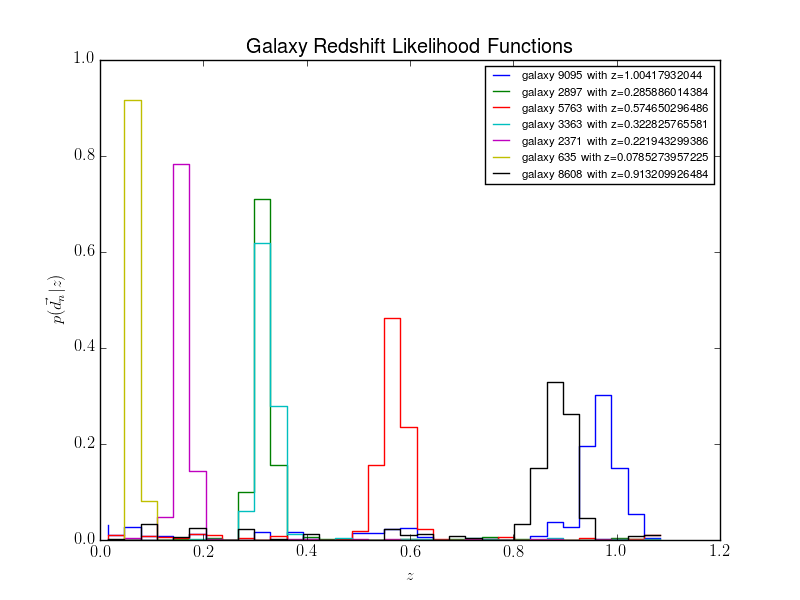
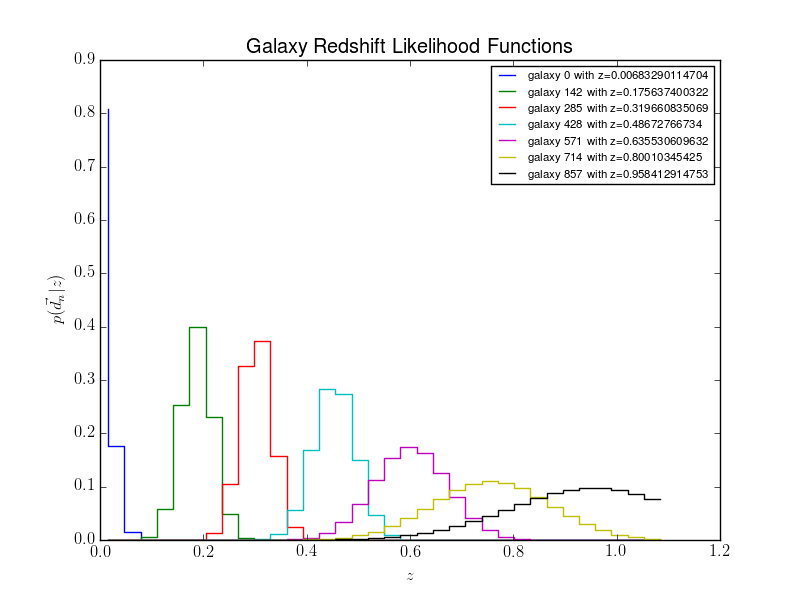
revision

diff --git a/minimal-nz/maindoc.tex b/minimal-nz/maindoc.tex
@@ -38,7 +38,7 @@ This paper answers the question of how one would calculate the redshift distribu
 
 \section{Introduction}
 
-We would like to learn the redshift distribution function $\mathcal{N}(z)$ for a set of $N$ galaxies $n$.  We assume each galaxy has a known likelihood function $p(\vec{d}_{n}|z)$ for the observed data $\vec{d}_{n}$ (a set of magnitudes in each of several filters) over redshift $z$.  The full dataset of $\{\vec{d}_{n}\}_{n=1,\dots,N}$ will be denoted as $\textul{D}$.  The redshift distribution function may be expressed as Eq. \ref{eq:params}.
+We would like to learn the redshift distribution function $\mathcal{N}(z)$ for a set of $J$ galaxies $j$.  We assume each galaxy has a known likelihood function $p(\vec{d}_{j}|z)$ for the observed data $\vec{d}_{j}$ (a set of magnitudes in each of several filters) over redshift $z$.  The full dataset of $\{\vec{d}_{j}\}_{j=1,\dots,J}$ will be denoted as $\textul{D}$.  The redshift distribution function may be expressed as Eq. \ref{eq:params}.
 
 \begin{eqnarray}
 \label{eq:params}
@@ -49,7 +49,7 @@ The likelihood function for the redshift distribution function is given in Eq. \
 
 \begin{eqnarray}
 \label{eq:likelihood}
-p(\textul{D}|\mathcal{N}) &=& \prod_{n=1}^{N}\int p(\vec{d}_{n}|z)\ p(z|\mathcal{N})dz
+p(\textul{D}|\mathcal{N}) &=& \prod_{j=1}^{J}\int p(\vec{d}_{j}|z)\ p(z|\mathcal{N})dz
 \end{eqnarray}
 
 By Bayes' Rule, we may find the desired posterior according to Eq. \ref{eq:bayes}.  We want the posterior for direct comparison with prior work in the literature, but the likelihood of Eq. \ref{eq:likelihood} is in fact preferable.
@@ -65,21 +65,24 @@ It is generally considered difficult to calculate the posterior $p(\mathcal{N}|\
 
 \subsection{Probabilistic Model}
 
-We consider the $K=35$ redshift bins $B_{k}=[z_{k-1},z_{k}]$ for which \citet{she11} calculated posteriors for the redshift of each galaxy based on observations of the apparent magnitude in the five photmetric filters of SDSS.  We parametrize $\mathcal{N}(z)$ as a vector of histogram heights $\vec{\mathcal{N}}$ representing the probability that a galaxy's redshift lies within the corresponding bin.  Eq. \ref{eq:params} becomes Eq. \ref{eq:dparams}.
+We consider the $K=35$ redshift bins $B_{k}=[z^{B}_{k-1},z^{B}_{k}]$ for which \citet{she11} calculated posteriors for the redshift of each galaxy based on observations of the apparent magnitude in the five photmetric filters of SDSS.  We parametrize $\mathcal{N}(z)$ as a vector of histogram heights $\vec{\mathcal{N}}$ representing the probability that a galaxy's redshift lies within the corresponding bin.  Eq. \ref{eq:params} becomes Eq. \ref{eq:dparams}, although we actually work with the log of $\vec{\mathcal{N}}$ throughout.  
 
 \begin{eqnarray}
 \label{eq:dparams}
 p(B_{k}|\vec{\mathcal{N}}) &=& \mathcal{N}_{k}% \vec{\mathcal{N}} \equiv \frac{\mathcal{N}_{k}}{\sum_{k=1}^{K}\mathcal{N}_{k}}
 \end{eqnarray}
 
-In order to simulate data, we must select a true redshift function $\vec{\mathcal{N}}^{0}$ from some prior.  In this case, we choose the prior $p(\vec{\mathcal{N}})$ to be a multivariate Gaussian distribution satisfying Eq. \ref{eq:covmat}.  This covariance structure is chosen to enforce continuity of the histogram heights, to better approximate a potentially realistic $\mathcal{N}(z)$.
+\subsection{Fake Data}
+\label{sec:fake}
+
+In order to simulate data, we must select a true redshift function $\vec{\mathcal{N}}^{0}$ from some prior evaluated at the center of each bin $z_{k}=(z_{k+1}^{B}-z_{k}^{B})/2$.  In this case, we choose the prior $p(\vec{\mathcal{N}})$ to be a multivariate Gaussian distribution satisfying Eq. \ref{eq:covmat}.  This covariance structure is chosen to enforce continuity of the histogram heights, to better approximate a potentially realistic $\mathcal{N}(z)$.  IT SHOULD BE NOTED THAT SMOOTHNESS IMPROVES IF A MORE BROADLY CORRELATED COVARIANCE MATRIX IS USED.
 
 \begin{mathletters}
 \begin{eqnarray}
 \label{eq:covmat}
-p(\vec{\mathcal{N}}) &=& N(\vec{\bar{p}},\textul{\Sigma})\\
-\bar{p}_{k} &=& K^{-1}\nonumber\\
-\Sigma_{ij} &=& \left\{\begin{array}{cc}0& i=j\\\frac{K^{-1}}{|i-j|}&i\neq j\end{array}\right\}\nonumber
+p(\ln[\vec{\mathcal{N}}]) &=& N(\ln[\vec{\mu}],\textul{\Sigma})\\
+\mu_{k} &=& \frac{z_{k}^{z_{K}^{B}}\exp[-z_{k}*z_{1}^{B}]}{\sum_{k=0}^{K}z_{k}^{z_{K}^{B}}\exp[-z_{k}*z_{1}^{B}]}\nonumber\\
+\Sigma_{ij} &=& \left\{\begin{array}{cc}i=j&\ K^{-1/2}\\|i-j|=1&\ K^{-1}\\else&0\end{array}\right\}\nonumber
 \end{eqnarray}
 \end{mathletters}
 
@@ -87,69 +90,73 @@ Some examples of samples from the prior are shown in Fig. \ref{fig:priors}.
 
 \begin{figure}
 \label{fig:priors}
-\plotone{log-prior-samps.png}
+\plotone{real-prior-samps.png}
 \caption{Several random samples of $\vec{\mathcal{N}}$ from the prior distribution of Eq. \ref{eq:covmat} are shown here.  The mean of the prior is shown in black.}
 \end{figure}
 
-\subsection{Fake Data}
+Next, we generate galaxy redshift likelihood functions as follows.  We first assign a bin number $b_{j}=k$ from $k=1,\dots,K$ to each of $J=1000$ galaxies by randomly sampling the $K$ bins with weights given by the prior as $p(b_{j})\sim\mathcal{N}^{0}_{k}$.  We then assign each galaxy a true redshift $z_{j}$ chosen uniformly from within the bin $B_{b_{j}}$ to which it was assigned.  Here it is convenient to define $\beta$ as the mean redshift per bin.
 
-Next, we generate galaxy redshift likelihood functions as follows.  
-
-First, we assign a bin number $b_{n}$ from $k=1,\dots,K$ to each of $N=10000$ galaxies by randomly sampling the $K$ bins with weights given by the prior as $p(b_{n})\sim\mathcal{N}^{0}_{k}$.  We then assign each galaxy a true redshift $z_{n}^{0}$ chosen uniformly from within the bin $B_{b_{n}}$ to which it was assigned.  Here it is convenient to define $\bar{z}_{k}$ as the mean redshift per bin.
-
-The true redshift of each galaxy is shifted by a random error according to Eq. \ref{eq:zshift} to simulate inaccuracy in measurements, yielding a shifted redshift $z_{n}^{s}$ for each galaxy.  
+The true redshift of each galaxy is shifted by a random error according to Eq. \ref{eq:zshift} to simulate inaccuracy in measurements, yielding a shifted redshift $z_{j}'$ for each galaxy.  
 
 \begin{mathletters}
 \begin{eqnarray}
 \label{eq:zshift}
-z_{n}^{s} &=& z_{n}^{0}+e_{n}\\
-p(e_{n}) &=& N(0,\beta^{2})\nonumber\\
-\beta &=& \frac{\sum_{b_{n}=1}^{K}z_{b_{n}}-z_{b_{n}-1}}{K}\nonumber
+z_{j}' &=& z_{j}+e_{j}\\
+p(e_{j}) &=& N(0,\beta^{2})\nonumber\\
+\beta &=& \frac{\sum_{b_{j}=1}^{K}z_{b_{j}}-z_{b_{j}-1}}{K}\nonumber
 \end{eqnarray}
 \end{mathletters}
 
-The discretized likelihood function $p(\vec{d_{n}}|B_{k})$ for each galaxy is taken to be Gaussian with a mean equal to the shifted redshift and a standard deviation proportional to the true redshift to simulate the fact that uncertainty increases with redshift.  Thus the observed probability that galaxy $n$ has a redshift in bin $k$ is given by Eq. \ref{eq:zdist}.
+The discretized likelihood function $p(\vec{d_{j}}|B_{k})$ for each galaxy is taken to be Gaussian with a mean equal to the shifted redshift and a standard deviation proportional to the square of the true redshift to simulate the fact that uncertainty increases with redshift.  Thus the observed probability that galaxy $j$ has a redshift in bin $k$ is given by Eq. \ref{eq:zdist}.  As a final step, all likelihoods are normalized such that they sum to unity.  Fig. \ref{fig:pzs} shows a few examples of  simulated likelihoods.
 
 \begin{eqnarray}
 \label{eq:zdist}
-p(\vec{d_{n}}|B_{k}) = \int_{z_{k-1}}^{z_{k}} \frac{1}{\sqrt{2\pi(\beta\ z_{n}^{0})^{2}}}\exp\left[-\frac{(z_{n}^{s}-z')^{2}}{2(\beta\ z_{n}^{0})^{2}}\right]dz'
+\mathcal{L}_{j}^{k} &\equiv& p(\vec{d_{j}}|B_{k}) = \int_{z_{k-1}}^{z_{k}} \frac{1}{\sqrt{2\pi(\sqrt{\beta}z_{j}^{2})^{2}}}\exp\left[-\frac{(z_{j}'-\tilde{z})^{2}}{2(\sqrt{\beta}z_{j}^{2})^{2}}\right]d\tilde{z}
 \end{eqnarray}
-
-The likelihood functions are then noisified according to the Gaussian of Eq. \ref{eq:zerr}, yielding a likelihood $\vec{\mathcal{L}}_{n}$ for each galaxy.  Again, the standard deviation for the noisification is chosen to simulate decreased signal-to-noise at higher redshifts.  As a final step, all likelihoods are normalized such that they sum to unity.
-
-\begin{mathletters}
-\begin{eqnarray}
-\label{eq:zerr}
-\mathcal{L}_{n}^{k} &\equiv& \frac{p(\vec{d_{n}}|B_{k})+\epsilon_{nk}}{\sum_{k=1}^{K}p(\vec{d}_{n}|B_{k})+\epsilon_{nk}}\\
-p(\epsilon_{nk}) &=& N(0,(\beta\ (z_{n}^{0})^{2})^{2})\nonumber
-\end{eqnarray}
-\end{mathletters}
-
-As a final step, all likelihoods are normalized such that they sum to unity and are thus proper probabilities.  Fig. \ref{fig:pzs} shows a few examples simulated likelihoods.
 
 \begin{figure}
 \label{fig:pzs}
 \plotone{rando-lik-samps.png}
-\caption{Several random redshift likelihood functions are shown here.  Note that the width of the Gaussian and magnitude of noise increases with redshift.}
+\caption{Several random redshift likelihood functions are shown here.  Note that the width of the Gaussian increases with redshift.}
 \end{figure}
 
 There are some other physically motivated modifications of this process that would be valuable to explore in future work.  In particular, a multimodal distribution replacing the Gaussian shape of the likelihoods would better simulate the degeneracies present in photometric redshift estimates.
 
 \section{Results}
 
-The Metropolis-Hastings algorithm is applied to sample the posterior.  We propose a value of $\vec{\mathcal{N}}$ based on the previously accepted value (initializing with the mean of the prior) and compare the numerator of Eq. \ref{eq:bayes} for the proposed and previously accepted values, since the two samples of $\vec{\mathcal{N}}$ will have the same denominator.  Eq. \ref{eq:disc-post} is the discretized version of the combination of \ref{eq:bayes} and \ref{eq:likelihood}.  If the ratio of the proposed posterior to the previous is greater than unity, the proposal is accepted; otherwise, the posterior likelihood is compared to a random probability and accepted if and only if the random number is less than the posterior.  This process is repeated for $R=10000$ iterations, arbitrarily.
+One instance of $\vec{\mathcal{N}}$ was selected at random as a true value.  Samples of true galaxy redshifts were taken from that distribution and transformed into likelihood functions according to the procedure of Sec. \ref{sec:fake}.  Fig. \ref{fig:samples} shows histograms of the fake data generated.  It is worth noting that any method aiming to calculate the posterior can do no better than the "observed redshifts" that go into generating the data.
+
+\begin{figure}
+\label{fig:samples}
+\plotone{inputs.png}
+\caption{The true $\vec{\mathcal{N}}$ chosen for this test is plotted here, along with histograms of the true redshifts sampled from it and the shifted redshifts resulting from the fake data generation procedure.}
+\end{figure}
+
+The Metropolis-Hastings algorithm is applied to sample the posterior.  The procedure is initialized with the log of the mean $\ln\vec{\mu}$ of the prior distribution of Eq. \ref{eq:covmat}, which shall be denoted $\ln\vec{\mathcal{N}}$.  The log of the numerator of the posterior of Eq. \ref{eq:bayes} is calculated according to Eq. \ref{eq:disc-post} and is denoted as $\ln\tilde{p}(\vec{\mathcal{N}}|\textul{D})$.  The following pseudo-code outlines the algorithm.
+
+\begin{enumerate}
+\item \label{it:randsamp} Randomly sample $\ln\tilde{p}(\vec{\mathcal{N}}|\textul{D})$ to generate $\vec{\mathcal{N}}'$.
+\item Calculate the log of the numerator of the posterior as in Eq. \ref{eq:disc-post} to produce $\ln\tilde{p}(\vec{\mathcal{N}}'|\textul{D})$.
+\item Calculate $r=\ln\tilde{p}(\vec{\mathcal{N}}'|\textul{D})-\ln\tilde{p}(\vec{\mathcal{N}}|\textul{D})$.
+\item If $r\geq0$, set and record $\ln\vec{\mathcal{N}}=\ln\vec{\mathcal{N}}'$; recalculate $\ln\tilde{p}(\vec{\mathcal{N}}|\textul{D})$.\\
+If $r<0$, select a random number $n$ from the uniform distribution between 0 and 1.
+\begin{enumerate}
+\item If $n<e^{r}$, set and record $\vec{\mathcal{N}}=\vec{\mathcal{N}}'$; recalculate $\ln\tilde{p}(\vec{\mathcal{N}}|\textul{D})$.
+\end{enumerate}
+\item Check if the threshold has been achieved; if not, return to Step \ref{it:randsamp}.
+\end{enumerate}
 
 \begin{eqnarray}
 \label{eq:disc-post}
-p(\vec{\mathcal{N}}|\textul{D}) &\propto& p(\vec{\mathcal{N}})\  \prod_{n=1}^{N}\sum_{k=1}^{K}p(\vec{d}_{n}|z_{k})\ p(z_{k}|\vec{\mathcal{N}})
+p(\vec{\mathcal{N}}|\textul{D}) &\propto& p(\vec{\mathcal{N}})\  \prod_{j=1}^{J}\sum_{k=1}^{K}p(\vec{d}_{j}|z_{k})\ p(z_{k}|\vec{\mathcal{N}})
 \end{eqnarray}
 
-All accepted proposals from one instance of the code are shown in Fig. \ref{fig:results}.  The acceptance fraction for this run was on the order of 0.1\%.  Since 10000 iterations likely doesn't even get through the "burn-in" period of the algorithm, this acceptance fraction is not surprising!  If I were convinced it were otherwise valid, I would run it until some convergence criterion were achieved.  However, since that might take quite some time, I will conservatively refrain from doing so.
+Here, the threshold was an arbitrary $R=10000$ iterations of the algorithm.  All accepted proposals from one instance of the code are shown in Fig. \ref{fig:results}.  The acceptance fraction was $\sim0.1\%$ for this and other runs.  Since 10000 iterations likely doesn't even get through the "burn-in" period of the algorithm, this acceptance fraction is not surprising!  If I were convinced it were otherwise valid, I would run it until some convergence criterion were achieved.  However, since that might take quite some time, I will conservatively refrain from doing so.
 
 \begin{figure}
 \label{fig:results}
 \plotone{mcmc-results.png}
-\caption{Accepted proposal values of $\vec{\mathcal{N}}$ are shown here, along with the true value in black.  One can see that it is the distribution of these proposals that counts, not simply the most recent one, i.e. they do not improve on one another in a linear fashion.}
+\caption{Accepted proposal values of $\vec{\mathcal{N}}$ are shown here, along with the true value in black..}
 \end{figure}
 
 \section{Discussion}
@@ -158,30 +165,22 @@ It is desirable to compare this result to what would have been obtained by the m
 
 \begin{eqnarray}
 \label{eq:sheldon}
-p(B_{k}|\vec{\mathcal{N}}) &=& \sum_{n=1}^{N}p(B_{k}|\vec{d}_{n})
+p(B_{k}|\vec{\mathcal{N}}) &=& \sum_{n=1}^{N}p(B_{k}|\vec{d}_{j})
 \end{eqnarray}
 
-To do this, I calculate the posteriors $p(z|\vec{d}_{n})$ for each galaxy using Eq. \ref{eq:posts}, the product of $\vec{\mathcal{N}}$ and the likelihood for each galaxy.  THIS DOESN'T SEEM RIGHT\dots
+To do this, I calculate the posteriors $p(z|\vec{d}_{j})$ for each galaxy using Eq. \ref{eq:posts}, the product of the estimate of $\vec{\mathcal{N}}$ and the likelihood for each galaxy.  This is done for all accepted values of $\vec{\mathcal{N}}$.
 
 \begin{eqnarray}
 \label{eq:posts}
-p(B_{k}|\vec{d}_{n}) &=& p(\vec{d}_{n}|B_{k})p(\vec{\mathcal{N}}|\textul{D})
+p(B_{k}|\vec{d}_{j}) &=& p(\vec{d}_{j}|B_{k})p(\vec{\mathcal{N}}|\textul{D})
 \end{eqnarray}
 
-Since the Metropolis-Hastings algorithm yields a collection of $T$ accepted samples of $p(\vec{\mathcal{N}}|\textul{D})$ rather than one value, we shall take a mean value according to Eq. \ref{eq:avgn}.
-
-\begin{eqnarray}
-\label{eq:avgn}
-p(B_{k}|\vec{d}_{n}) &=& \frac{\sum_{t=1}^{T} p(\vec{d}_{n}|B_{k})p(\vec{\mathcal{N}}^{t}|\textul{D})}{T}\\
-&=& p(\vec{d}_{n}|B_{k})\frac{\sum_{t=1}^{T}\mathcal{N}_{k}^{t}}{T}\nonumber
-\end{eqnarray}
-
-Fig. \ref{fig:sheldon} compares the result of summing the posteriors of Eq. \ref{eq:avgn} with the result of the MCMC solution of Eq. \ref{eq:bayes}.  The method of \citet{she11} suffers from an overestimate of the probability of observing low redshifts and an underestimate of the probability of observing high redshifts.  As one would expect, the MCMC estimate irreversibly loses some substructure because of the shifting error added to the simulated data.
+Fig. \ref{fig:sheldon} compares the result of summing the posteriors as in Eq. \ref{eq:sheldon} with the result of the MCMC solutions of Eq. \ref{eq:bayes}.  The method of \citet{she11} underestimates the probability of observing low redshifts.  As one would expect, the MCMC estimate irreversibly loses some substructure because of the shifting error added to the simulated data.
 
 \begin{figure}
 \label{fig:sheldon}
 \plotone{compare-sheldon.png}
-\caption{The result of applying Eq. \ref{eq:sheldon} is shown in red, the average accepted posterior sample from the method presented here is shown in green, and the true $\vec{\mathcal{N}}$ that seeded the data is shown in blue.  The sum of squared differences between the result of each method and the true value are also shown; one can see that the \citet{she11} approach has errors two orders of magnitude greater than those of the statistically sound approach.}
+\caption{The result of applying Eq. \ref{eq:sheldon} is shown in red, the average accepted posterior sample from the method presented here is shown in blue, and $\mathcal{N}(z)$ for the observable redshifts of Eq. \ref{eq:zshift} is shown in black.  The sum of squared differences between the result of each method and the true value are also shown; one can see that the \citet{she11} approach has larger errors.}
 \end{figure}
 
 %\acknowledgments
